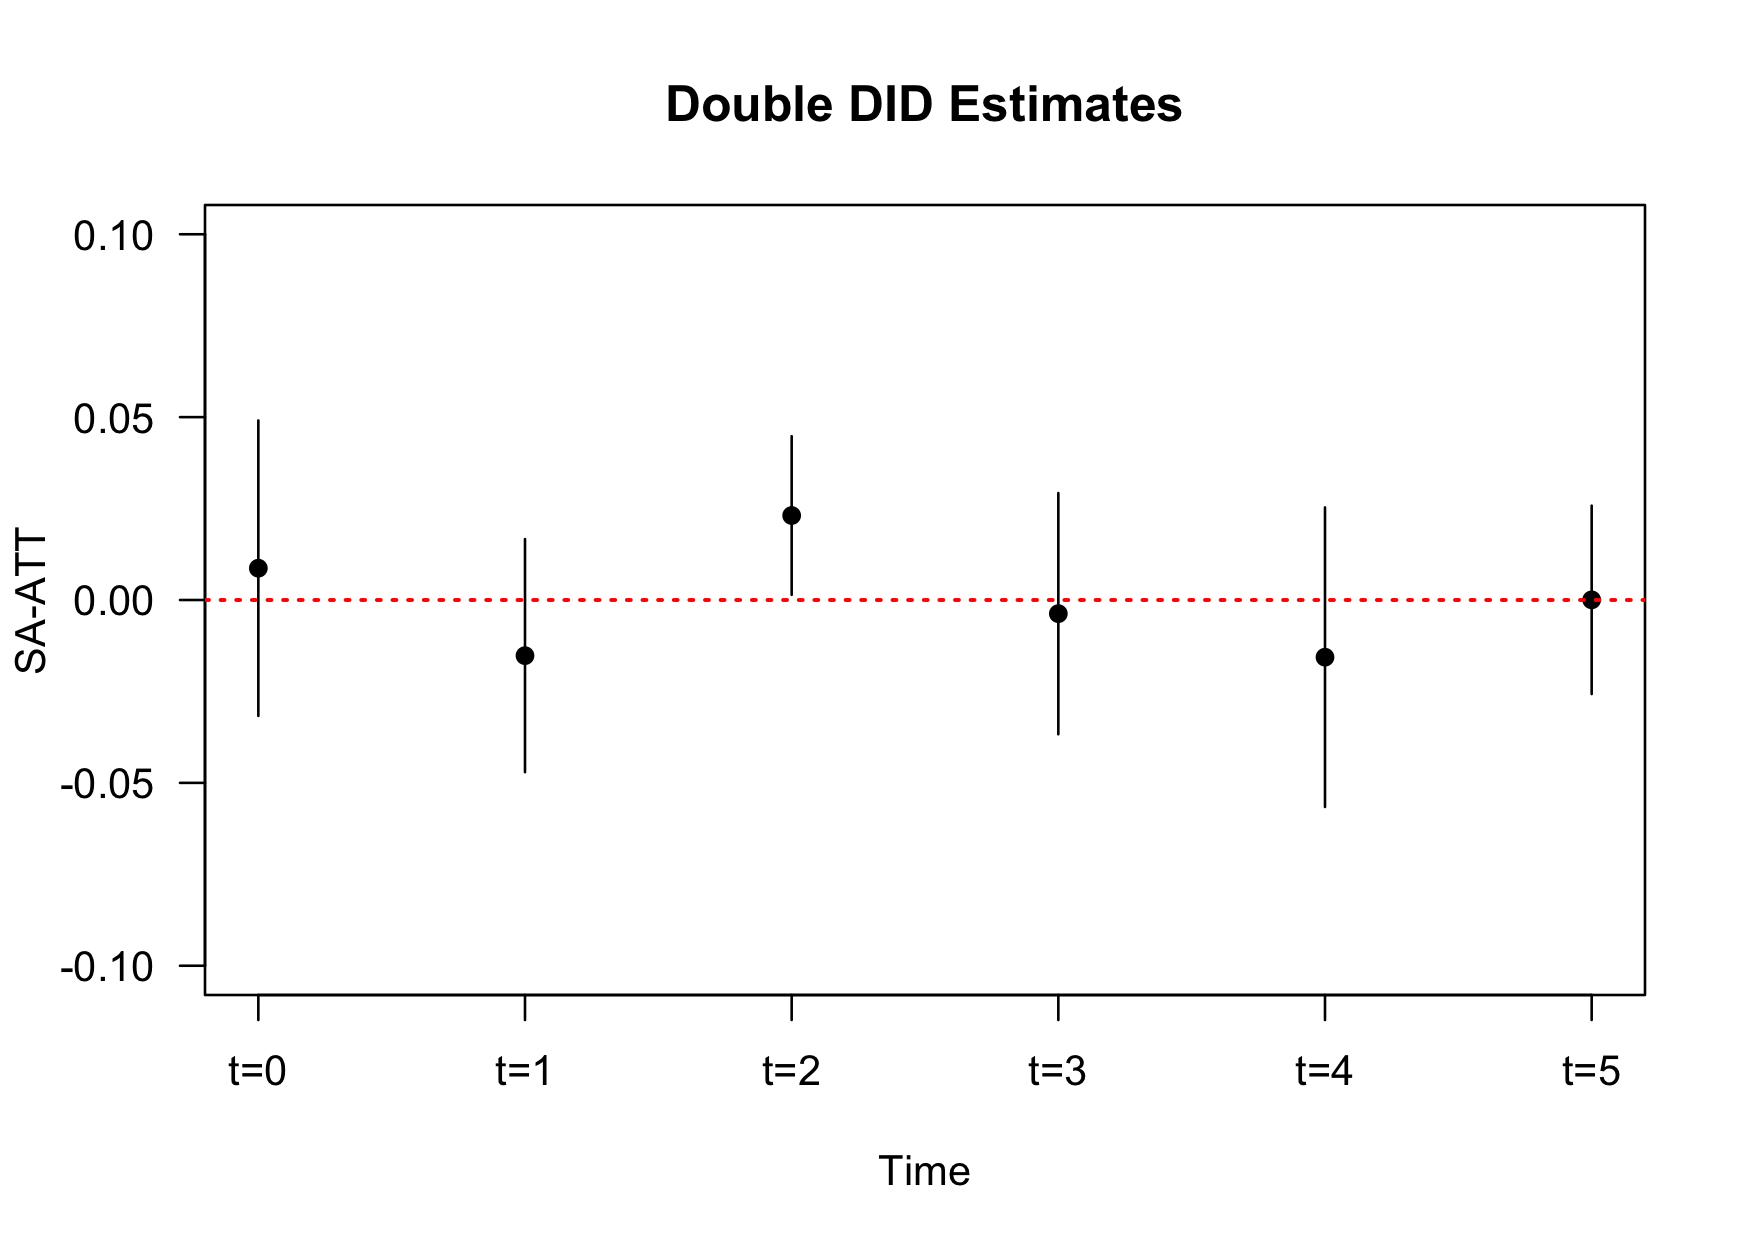
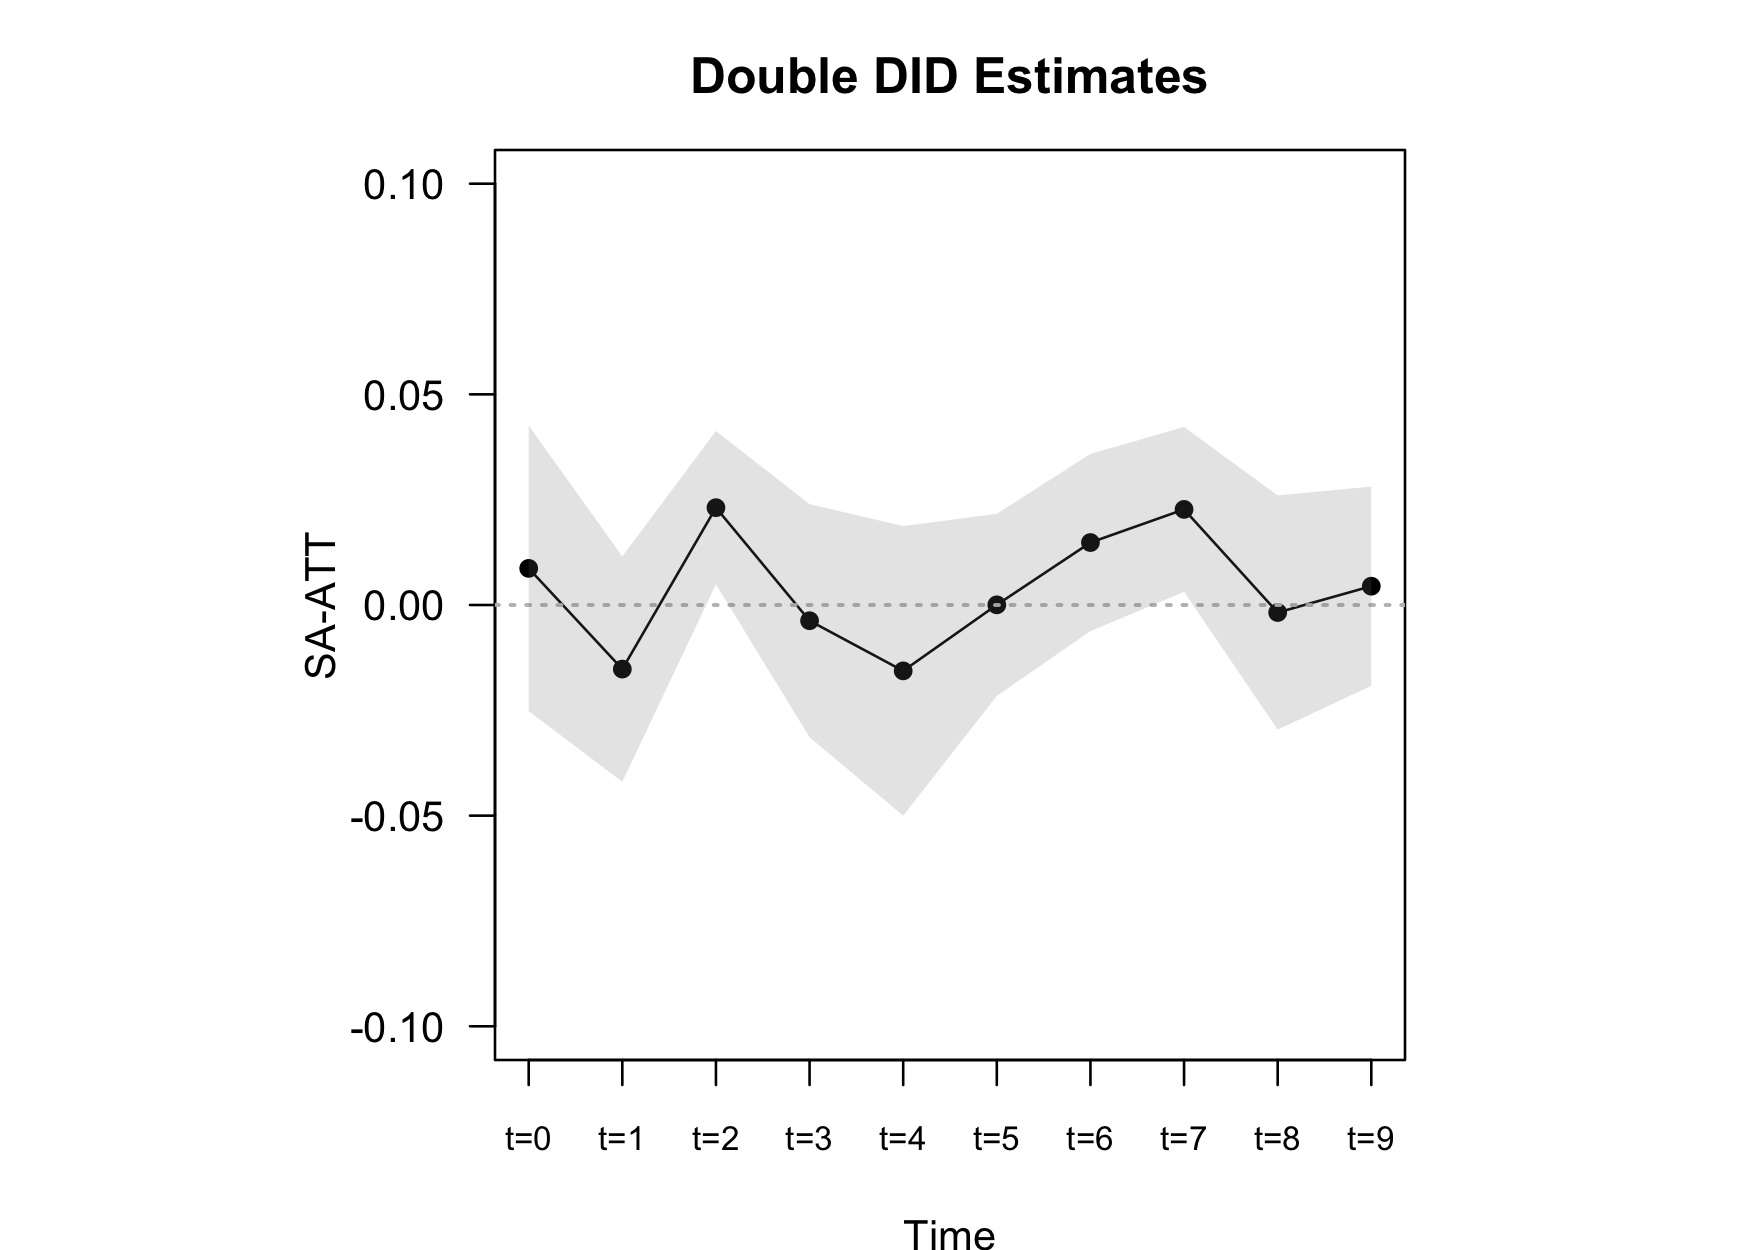
Update figure

diff --git a/README.md b/README.md
@@ -182,7 +182,7 @@ fit_sa <- did(
   id_unit = "id_subject",
   id_time = "id_time",
   design  = "sa",
-  option  = list(n_boot = 200, lead = 0:5, thres = 2, parallel = TRUE)
+  option  = list(n_boot = 200, lead = 0:9, thres = 2, parallel = TRUE)
 )
 ```
 
@@ -199,28 +199,16 @@ additional argument specific to the staggered adoption design.
 <!-- end list -->
 
 ``` r
-summary(fit_sa)
-#> # A tibble: 18 x 7
-#>    estimator      lead  estimate std.error statistic p_value ddid_weight
-#>    <chr>         <int>     <dbl>     <dbl>     <dbl>   <dbl>       <dbl>
-#>  1 SA-Double-DID     0  0.00805     0.0235    0.343   0.732      NA     
-#>  2 SA-DID            0  0.0149      0.0151    0.991   0.322      -0.164 
-#>  3 SA-sDID           0  0.00903     0.0201    0.450   0.653       1.16  
-#>  4 SA-Double-DID     1 -0.0165      0.0202   -0.815   0.415      NA     
-#>  5 SA-DID            1  0.000916    0.0190    0.0481  0.962       0.166 
-#>  6 SA-sDID           1 -0.0199      0.0240   -0.833   0.405       0.834 
-#>  7 SA-Double-DID     2  0.0235      0.0112    2.11    0.0352     NA     
-#>  8 SA-DID            2  0.0267      0.0160    1.67    0.0953      0.532 
-#>  9 SA-sDID           2  0.0199      0.0154    1.29    0.197       0.468 
-#> 10 SA-Double-DID     3 -0.00992     0.0224   -0.443   0.657      NA     
-#> 11 SA-DID            3  0.0205      0.0140    1.47    0.143       0.0670
-#> 12 SA-sDID           3 -0.0121      0.0239   -0.505   0.613       0.933 
-#> 13 SA-Double-DID     4 -0.0160      0.0189   -0.849   0.396      NA     
-#> 14 SA-DID            4  0.00759     0.0165    0.461   0.645       0.106 
-#> 15 SA-sDID           4 -0.0188      0.0210   -0.895   0.371       0.894 
-#> 16 SA-Double-DID     5  0.00128     0.0112    0.114   0.909      NA     
-#> 17 SA-DID            5  0.00930     0.0143    0.651   0.515       0.407 
-#> 18 SA-sDID           5 -0.00421     0.0161   -0.261   0.794       0.593
+head(summary(fit_sa))
+#> # A tibble: 6 x 7
+#>   estimator      lead  estimate std.error statistic p_value ddid_weight
+#>   <chr>         <int>     <dbl>     <dbl>     <dbl>   <dbl>       <dbl>
+#> 1 SA-Double-DID     0  0.00869     0.0206    0.422    0.673     NA     
+#> 2 SA-DID            0  0.0149      0.0162    0.921    0.357     -0.0563
+#> 3 SA-sDID           0  0.00903     0.0195    0.463    0.643      1.06  
+#> 4 SA-Double-DID     1 -0.0152      0.0163   -0.936    0.349     NA     
+#> 5 SA-DID            1  0.000916    0.0151    0.0606   0.952      0.227 
+#> 6 SA-sDID           1 -0.0199      0.0206   -0.970    0.332      0.773
 ```
 
 <img src="man/figures/README-unnamed-chunk-3-1.png" width="100%" />
